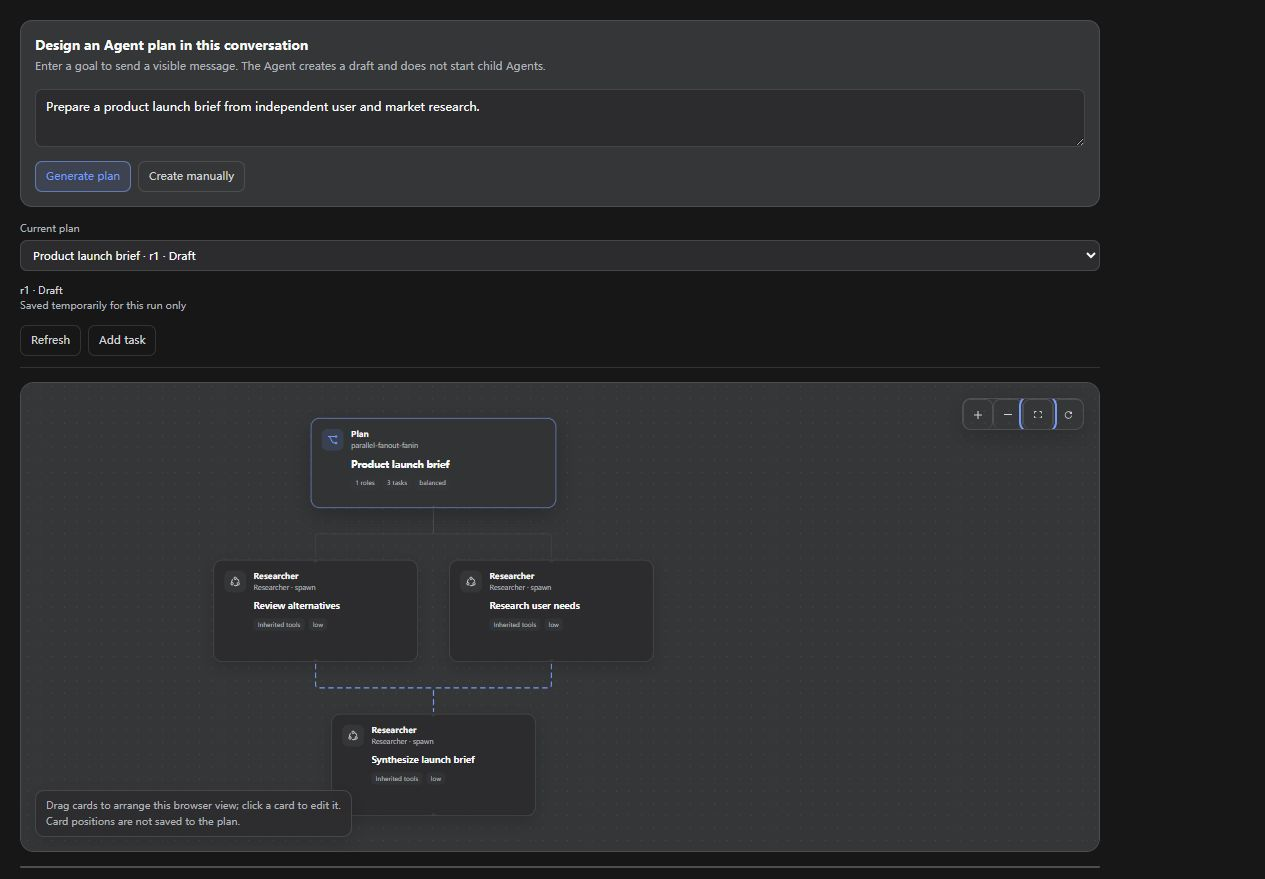
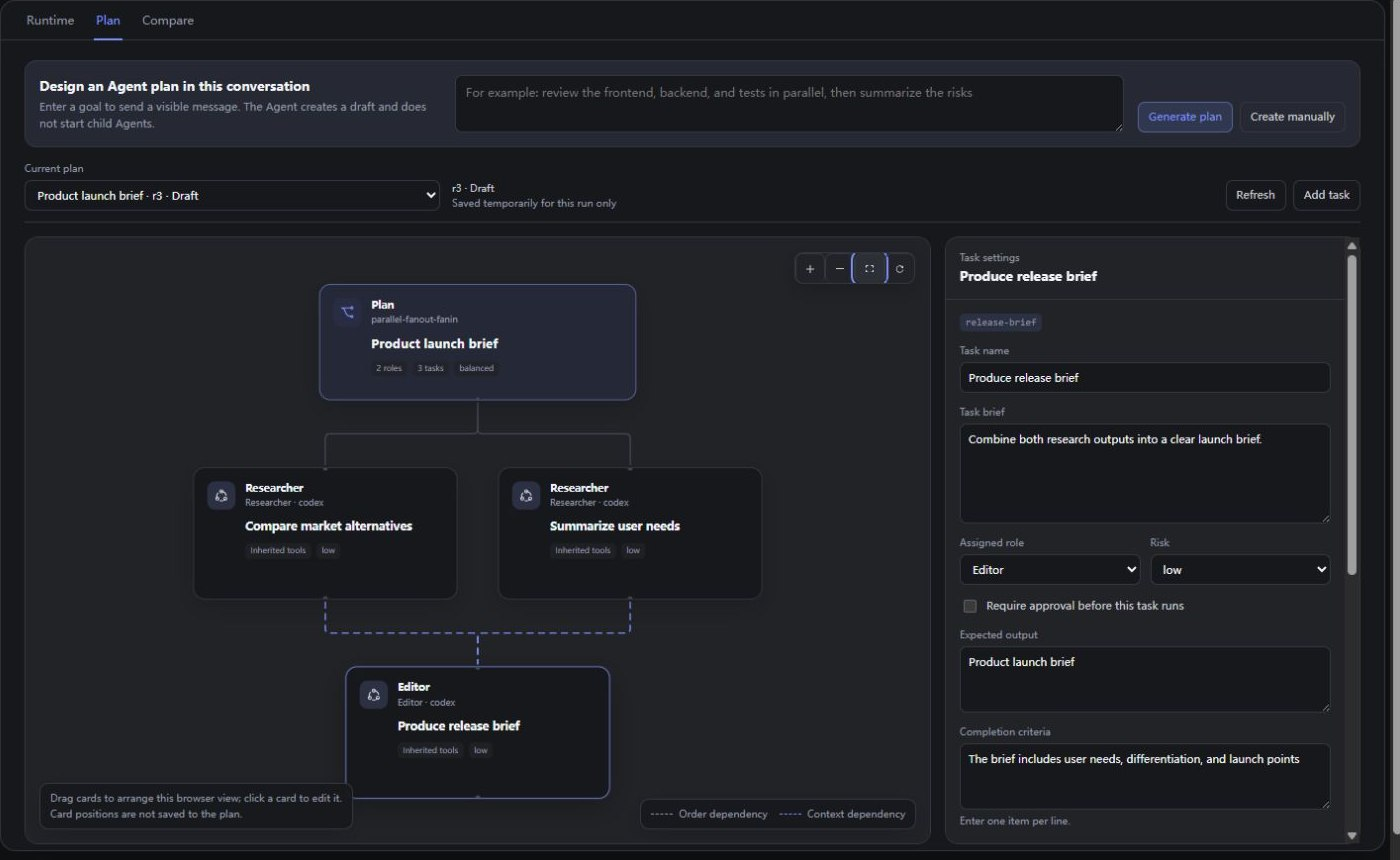
docs: expand README feature tour

diff --git a/README.md b/README.md
@@ -6,19 +6,54 @@ English · [简体中文](README.zh.md)
 [![Release](https://img.shields.io/github/v/release/Jokasa7/dsh-product-subagent-console?include_prereleases)](https://github.com/Jokasa7/dsh-product-subagent-console/releases)
 [![License: MIT](https://img.shields.io/badge/license-MIT-blue.svg)](LICENSE)
 
-Plan, run, and inspect multi-Agent work without leaving a [DeepSeek Harness](https://github.com/deepseek-ai/deepseek-harness) conversation.
+See, design, and verify multi-Agent work without leaving a [DeepSeek Harness](https://github.com/deepseek-ai/deepseek-harness) conversation.
+
+The plugin adds a **Subagents** workbench with three connected views: follow delegated work in **Runtime**, prepare an executable plan in **Plan**, and match that plan with the work that actually ran in **Compare**.
 
 > Requires DSH `0.1.1-rc.2`. This is an independent community plugin.
 >
 > Alpha preview: plans and execution history are cleared when the DSH Web process restarts.
 
-![DSH Product Subagent Console Agent plan canvas](docs/assets/agent-plan-en.jpg)
+## Three views, one workflow
 
-## Highlights
+| View | Use it for | What you can inspect |
+| --- | --- | --- |
+| **Runtime** | Following current and completed delegation | Parent-child branches, tasks, Providers, state, duration, and native child conversations |
+| **Plan** | Designing work before Agents start | Roles, tasks, dependencies, Providers, execution limits, preflight, and approved revisions |
+| **Compare** | Verifying planned work against execution | Planned tasks, actual attempts, status, timing, dependencies, and child sessions |
 
-- **Runtime** — follow native child sessions and compatible Provider runs on a draggable branch canvas.
-- **Plan** — turn a goal into editable roles, tasks, dependencies, Providers, and execution limits.
-- **Compare** — match approved plan tasks with actual executions, status, timing, and child sessions.
+## See it in action
+
+The examples below follow one product-launch brief from delegation through verification.
+
+### Runtime — follow every delegated branch
+
+![Runtime showing delegated Agent branches and selected run details](docs/assets/agent-runtime-en.jpg)
+
+Runtime places native DSH child sessions and compatible Provider runs on one draggable branch canvas. Pan, zoom, rearrange cards, or select a node to inspect its task, state, duration, and Provider details. Native nodes can also open their child conversation directly.
+
+### Plan — design before execution
+
+![Editable Agent plan with roles, tasks, dependencies, and task settings](docs/assets/agent-plan-en.jpg)
+
+Enter a goal to generate a draft, or start manually. Refine roles, responsibilities, tasks, dependencies, Providers, resources, and execution limits before any child Agent starts.
+
+Save the exact revision and run preflight against the capabilities available in the current DSH profile. Resolve blocking issues, review warnings, then approve the revision you want to execute.
+
+### Compare — match the plan with actual work
+
+![Approved plan compared with recorded Agent attempts](docs/assets/agent-compare-en.jpg)
+
+Compare connects each approved plan task to the attempts and child sessions recorded for that execution. Select a task or attempt to inspect its role, status, timing, dependencies, and expected output. Active executions can also receive a cancellation request.
+
+## From goal to verified execution
+
+1. Open **Subagents → Plan**, enter a goal, and generate or create a draft.
+2. Edit the canvas and settings, save the revision, then run preflight.
+3. Resolve blocking issues, review warnings, and approve the exact revision.
+4. Open **Compare** and request execution. Follow live branches in **Runtime**, then inspect the final plan-to-execution result in **Compare**.
+
+See [Agent Planner](docs/agent-planner.md) for the complete workflow and field guide.
 
 ## Install
 
@@ -45,15 +80,6 @@ Add the planner tool to a copied **Agent Preset**, save it, and create a new con
 ```
 
 Preset changes apply to new conversations only. Regular delegated runs remain visible in **Runtime** even when the planner tool is not enabled.
-
-## Use
-
-1. Open **Subagents → Plan**, enter a goal, and generate or create a draft.
-2. Edit the canvas and settings, save the revision, then run preflight.
-3. Resolve blocking issues, review any warnings, and approve the revision.
-4. Open **Compare**, ask the current conversation to execute the plan, and follow each planned task against its actual run.
-
-See [Agent Planner](docs/agent-planner.md) for the complete workflow and field guide.
 
 ## Compatibility
 

diff --git a/README.zh.md b/README.zh.md
@@ -6,19 +6,54 @@
 [![Release](https://img.shields.io/github/v/release/Jokasa7/dsh-product-subagent-console?include_prereleases)](https://github.com/Jokasa7/dsh-product-subagent-console/releases)
 [![License: MIT](https://img.shields.io/badge/license-MIT-blue.svg)](LICENSE)
 
-无需离开 [DeepSeek Harness](https://github.com/deepseek-ai/deepseek-harness) 对话，即可设计、运行和检查多 Agent 任务。
+无需离开 [DeepSeek Harness](https://github.com/deepseek-ai/deepseek-harness) 对话，即可查看、设计和核验多 Agent 任务。
+
+插件会在对话中添加一个**子代理**工作台：通过**运行**观察委派，通过**方案**准备可执行计划，再通过**对照**核验计划与实际运行是否一致。
 
 > 需要 DSH `0.1.1-rc.2`。这是独立社区插件。
 >
 > Alpha 预览：DSH Web 进程重启后，方案与执行记录会被清除。
 
-![DSH 产品子代理控制台](docs/assets/subagent-canvas-live.jpg)
+## 三种模式，一套完整流程
 
-## 功能亮点
+| 模式 | 适合做什么 | 可以查看什么 |
+| --- | --- | --- |
+| **运行** | 观察当前与已完成的委派任务 | 父子分支、任务、Provider、状态、耗时和原生子会话入口 |
+| **方案** | 在 Agent 启动前设计工作 | 角色、任务、依赖、Provider、执行限制、预检和已批准修订 |
+| **对照** | 核验计划与实际执行 | 计划任务、实际尝试、状态、耗时、依赖和子会话 |
 
-- **运行** — 在可拖动的分支画布上查看原生子会话和兼容 Provider 运行。
-- **方案** — 把目标转换为可编辑的角色、任务、依赖、Provider 与执行限制。
-- **对照** — 将已批准的计划任务与实际执行记录、状态、耗时和子会话逐项对应。
+## 功能演示
+
+下面使用同一份产品发布简报，连续展示从任务委派到执行核验的完整过程。
+
+### 运行 — 查看每一条委派分支
+
+![运行模式展示子代理分支和选中任务详情](docs/assets/agent-runtime-zh.jpg)
+
+运行模式会把 DSH 原生子会话和兼容 Provider 运行放在同一张可拖动画布中。可以平移、缩放和整理卡片，也可以选择节点查看任务、状态、耗时与 Provider 信息。对于原生节点，还可以直接打开对应的子会话。
+
+### 方案 — 执行前先完成设计
+
+![可编辑的 Agent 角色、任务、依赖与任务设置](docs/assets/agent-plan-zh.jpg)
+
+输入目标即可生成草案，也可以手动新建。子 Agent 启动前，可以继续调整角色、职责、任务、依赖、Provider、资源与执行限制。
+
+保存指定修订后，预检会根据当前 DSH Profile 的可用能力检查依赖和执行条件。处理阻塞问题、确认警告后，再批准需要执行的修订。
+
+### 对照 — 将计划与实际运行逐项对应
+
+![已批准方案与已记录 Agent 尝试的逐项对照](docs/assets/agent-compare-zh.jpg)
+
+对照模式会把已批准方案中的每项任务，与本次执行记录的 attempt 和子会话连接起来。选择任务或实际尝试，可以查看角色、状态、耗时、依赖和预期输出。执行仍处于活动状态时，也可以请求取消。
+
+## 从目标到可核验执行
+
+1. 打开**子代理 → 方案**，输入目标并生成或手动创建草案。
+2. 编辑画布和设置，保存修订，然后运行预检。
+3. 处理阻塞问题、确认警告，并批准指定修订。
+4. 打开**对照**并请求执行；在**运行**中观察实时分支，再回到**对照**查看最终的计划与实际结果。
+
+完整流程与字段说明见 [Agent 方案设计器](docs/agent-planner.zh.md)。
 
 ## 安装
 
@@ -45,15 +80,6 @@ dsh --profile web --dump-config
 ```
 
 预设修改只对新建对话生效。即使没有启用方案工具，普通委派任务仍会显示在**运行**模式中。
-
-## 使用
-
-1. 打开**子代理 → 方案**，输入目标并生成或手动创建草案。
-2. 在画布和设置中编辑方案，保存修订，然后运行预检。
-3. 处理阻塞问题、确认警告，并批准该修订。
-4. 打开**对照**，请求当前对话执行方案，并查看每项计划任务对应的实际运行。
-
-完整流程与字段说明见 [Agent 方案设计器](docs/agent-planner.zh.md)。
 
 ## 兼容性
 
